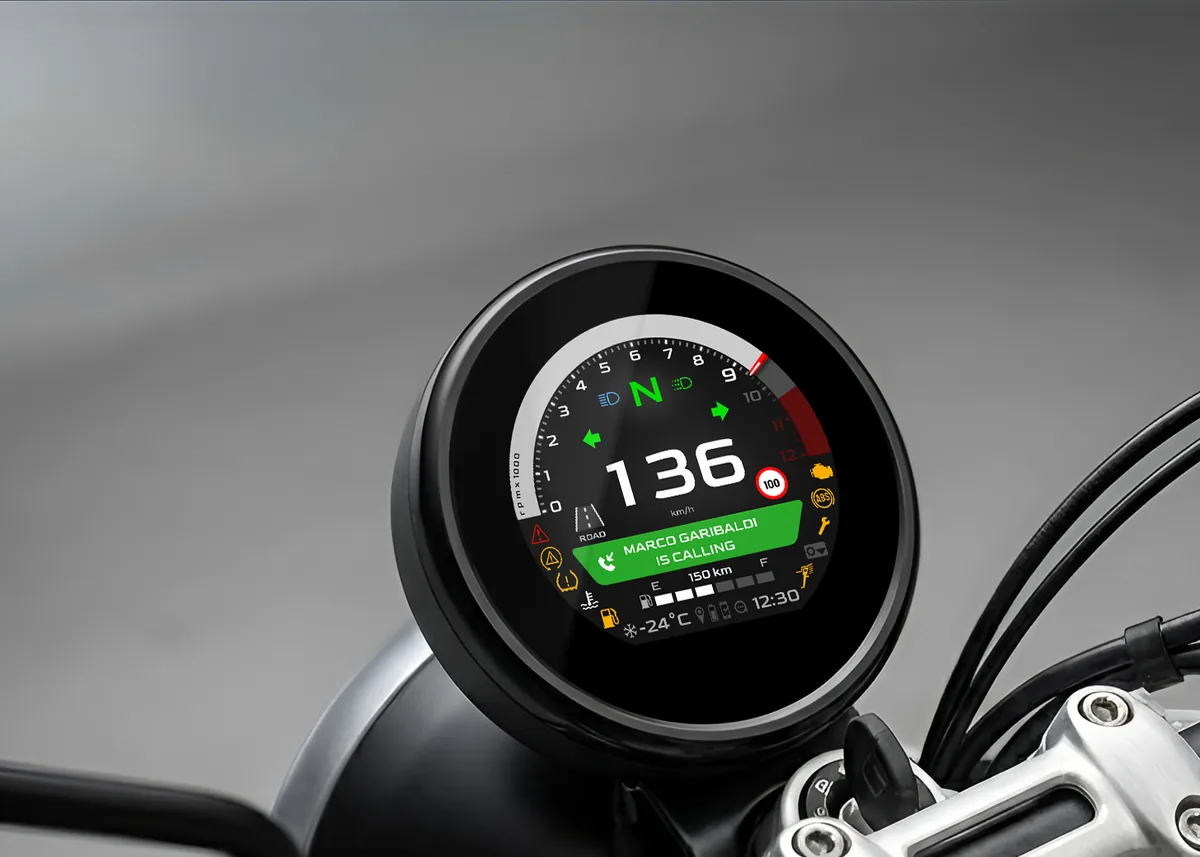
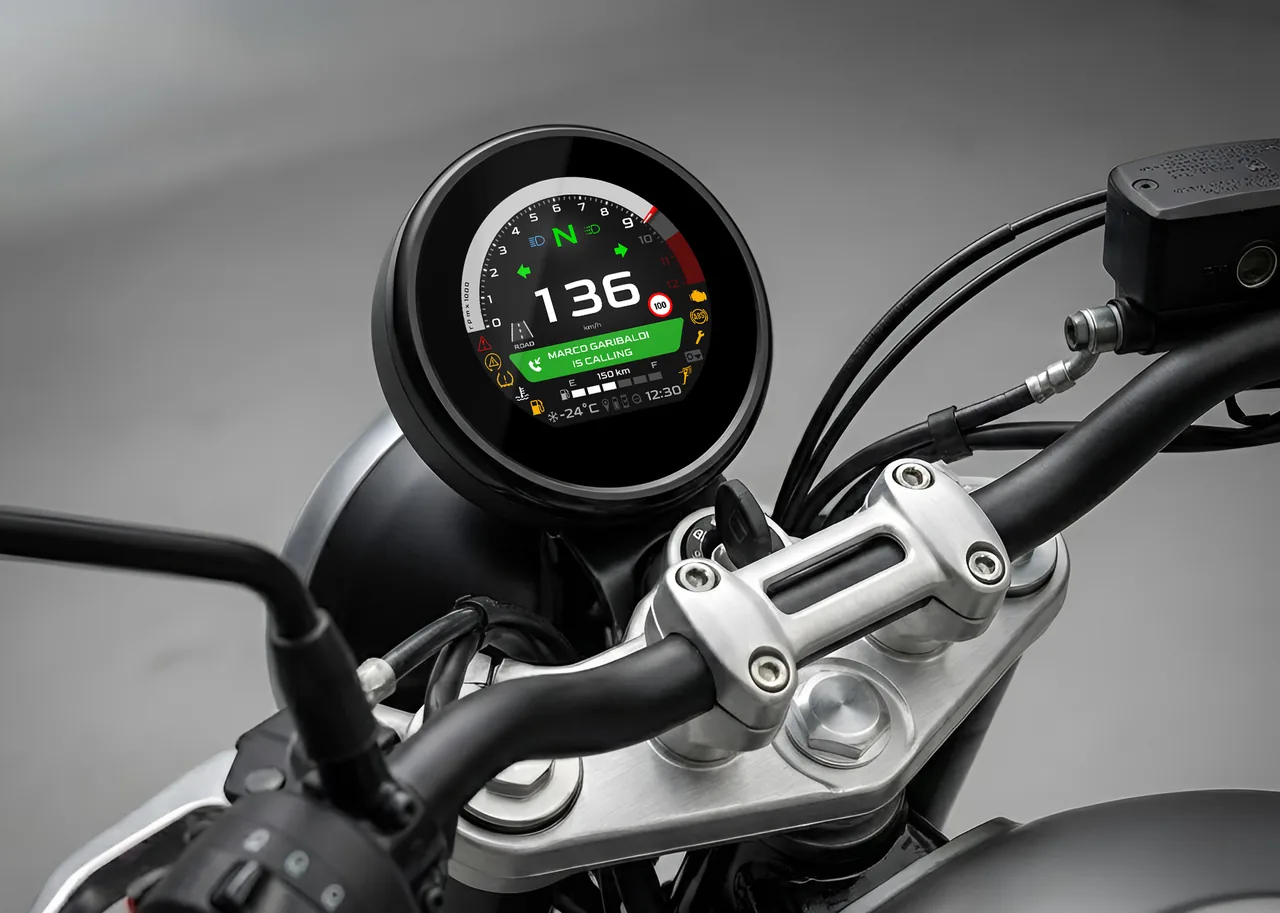
Moto Guzzi: wider framing (cockpit + full handlebar), stronger smoke
- Re-crop the studio photo to a 1.4:1 landscape that keeps the round
  cockpit in the upper third with the full handlebar and fork clamp
  below, matching the requested composition. WebP 66KB.
- Smoke made clearly visible: larger radial wisps, opacity up to .55/
  .40, anchored low (78-82%) over the dark handlebar where white reads
  on screen blend; slightly bigger drift. Still soft (22-26px blur).

diff --git a/assets/css/styles.css b/assets/css/styles.css
@@ -765,7 +765,7 @@ a {
   transition-delay: 1s;
 }
 
-/* Delicate drifting smoke over the photo — small and subtle */
+/* Drifting smoke over the photo — visible but soft, rising from the base */
 .reveal-smoke {
   position: absolute;
   inset: 0;
@@ -773,17 +773,17 @@ a {
   pointer-events: none;
   opacity: 0;
   mix-blend-mode: screen;
-  filter: blur(16px);
-  transition: opacity 1.6s var(--ease-out);
-  background: radial-gradient(26% 20% at 44% 80%,
-    rgba(255, 255, 255, .18), transparent 72%);
-  animation: smokeDrift 17s ease-in-out infinite;
+  filter: blur(22px);
+  transition: opacity 1.4s var(--ease-out);
+  background: radial-gradient(42% 34% at 40% 82%,
+    rgba(255, 255, 255, .55), rgba(255,255,255,.12) 55%, transparent 75%);
+  animation: smokeDrift 15s ease-in-out infinite;
 }
 .reveal-smoke--2 {
-  background: radial-gradient(20% 16% at 60% 72%,
-    rgba(255, 255, 255, .12), transparent 74%);
-  animation: smokeDrift2 21s ease-in-out infinite;
-  filter: blur(20px);
+  background: radial-gradient(34% 28% at 64% 76%,
+    rgba(255, 255, 255, .40), transparent 72%);
+  animation: smokeDrift2 19s ease-in-out infinite;
+  filter: blur(26px);
 }
 .work--reveal .work__link:hover .reveal-smoke {
   opacity: 1;
@@ -791,11 +791,11 @@ a {
 }
 @keyframes smokeDrift {
   0%, 100% { transform: translate(0, 0) scale(1); }
-  50%      { transform: translate(4%, -7%) scale(1.1); }
+  50%      { transform: translate(5%, -10%) scale(1.14); }
 }
 @keyframes smokeDrift2 {
   0%, 100% { transform: translate(0, 0) scale(1); }
-  50%      { transform: translate(-5%, -5%) scale(1.12); }
+  50%      { transform: translate(-6%, -8%) scale(1.16); }
 }
 @media (prefers-reduced-motion: reduce) {
   .reveal-smoke { animation: none; }
